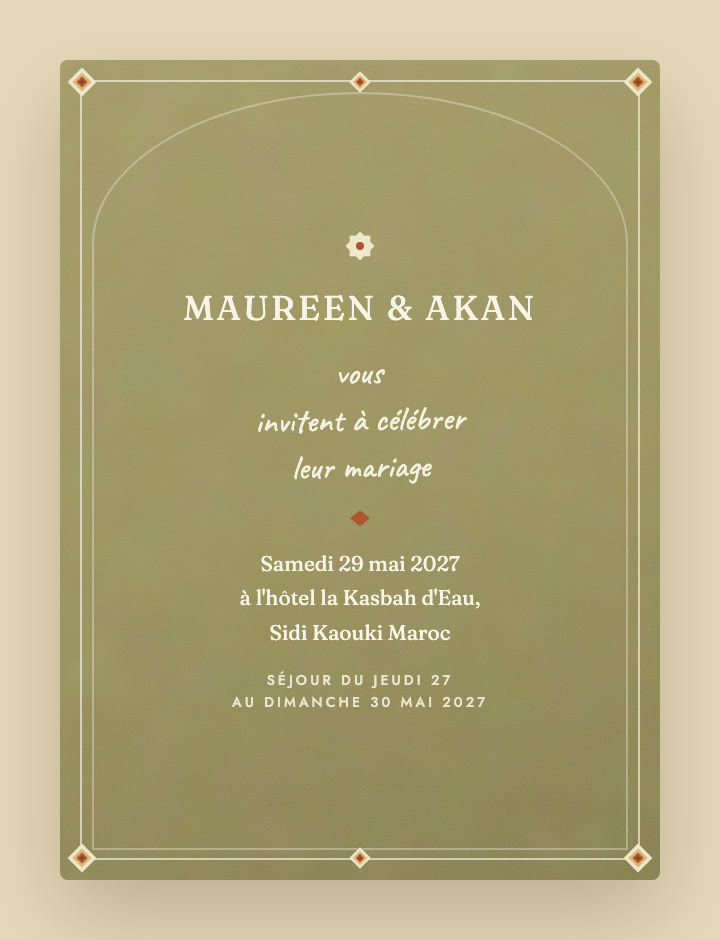
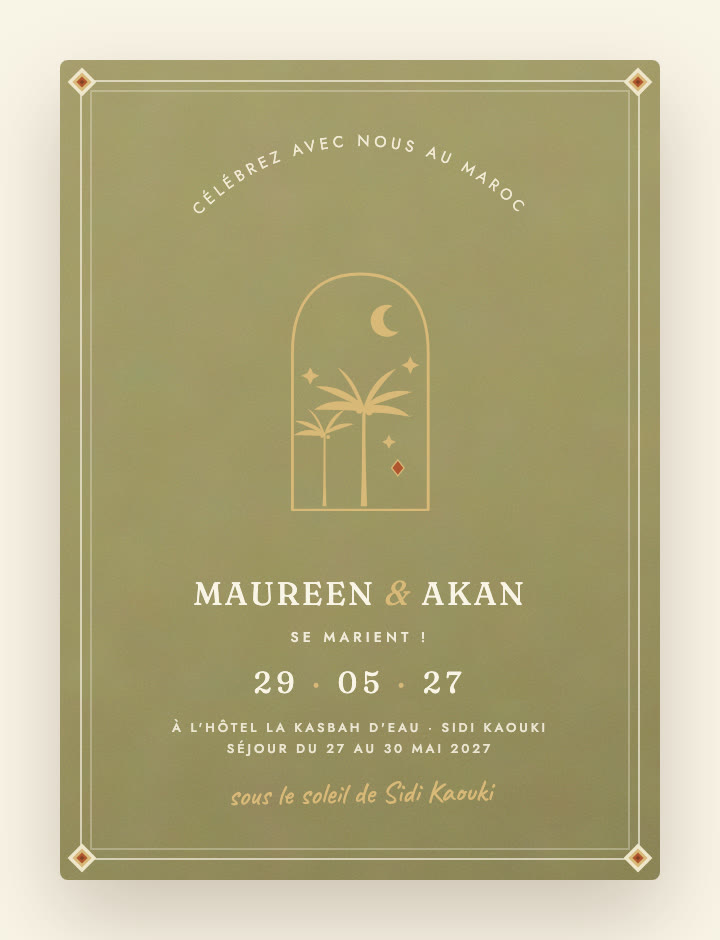
Email : retour au fond beige, nouveau texte, languette-arche + vagues + olivier

diff --git a/lib/email.ts b/lib/email.ts
@@ -19,40 +19,41 @@ export function renderInvitationEmail(firstName: string, rsvpUrl: string) {
   return `<!doctype html>
 <html lang="fr">
   <head><meta charset="utf-8" /></head>
-  <body bgcolor="#7c7448" style="margin:0;padding:0;background-color:#7c7448;">
-    <table role="presentation" width="100%" cellpadding="0" cellspacing="0" bgcolor="#7c7448" style="background-color:#7c7448;">
-      <tr><td align="center" bgcolor="#7c7448" style="background-color:#7c7448;padding:40px 12px;">
-        <img src="${site}/images/email-sun-cream.png" alt="" width="34" height="34" style="display:block;margin:0 auto 14px;border:0;" />
-        <p style="margin:0 0 18px;font-family:Georgia,serif;font-size:22px;color:#faf4e8;">${firstName}, une enveloppe vous attend&hellip;</p>
-        <p style="margin:0 auto 24px;max-width:430px;font-family:Arial,Helvetica,sans-serif;font-size:14px;line-height:1.6;color:#efe6cc;">${invitationEmail.intro}</p>
+  <body bgcolor="#faf4e8" style="margin:0;padding:0;background-color:#faf4e8;">
+    <table role="presentation" width="100%" cellpadding="0" cellspacing="0" bgcolor="#faf4e8" style="background-color:#faf4e8;">
+      <tr><td align="center" bgcolor="#faf4e8" style="background-color:#faf4e8;padding:0 12px 40px;">
+        <img src="${site}/images/email-arch.png" alt="" width="96" height="52" style="display:block;margin:0 auto 22px;border:0;" />
+        <p style="margin:0 0 12px;font-family:Georgia,serif;font-size:22px;color:#55402c;">${firstName}, une enveloppe vous attend&hellip;</p>
+        <img src="${site}/images/email-waves.png" alt="" width="52" height="20" style="display:block;margin:0 auto 18px;border:0;" />
+        <p style="margin:0 auto 24px;max-width:430px;font-family:Arial,Helvetica,sans-serif;font-size:14px;line-height:1.6;color:#6b543a;">${invitationEmail.intro}</p>
         <a href="${rsvpUrl}" style="text-decoration:none;">
-          <img src="${site}/images/invitation-card-green.jpg" alt="Faire-part — ouvrez votre invitation" width="330" style="display:block;width:330px;max-width:88%;height:auto;border:0;border-radius:6px;" />
+          <img src="${site}/images/invitation-card.jpg" alt="Faire-part — ouvrez votre invitation" width="330" style="display:block;width:330px;max-width:88%;height:auto;border:0;border-radius:6px;" />
         </a>
         <table role="presentation" cellpadding="0" cellspacing="0" style="margin:26px auto 0;">
           <tr>
-            <td bgcolor="#efe6cc" style="background-color:#efe6cc;border-radius:999px;">
-              <a href="${rsvpUrl}" style="display:inline-block;color:#5c4a33;font-family:Arial,Helvetica,sans-serif;font-size:15px;font-weight:bold;text-decoration:none;padding:14px 36px;">${invitationEmail.linkLabel}</a>
+            <td bgcolor="#a85b3b" style="background-color:#a85b3b;border-radius:999px;">
+              <a href="${rsvpUrl}" style="display:inline-block;color:#faf4e8;font-family:Arial,Helvetica,sans-serif;font-size:15px;font-weight:bold;text-decoration:none;padding:14px 36px;">${invitationEmail.linkLabel}</a>
             </td>
           </tr>
         </table>
-        <p style="margin:18px auto 0;max-width:430px;font-family:Arial,Helvetica,sans-serif;font-size:13px;line-height:1.6;color:#e6dcbd;">${invitationEmail.outro}</p>
-        <p style="margin:24px 0 0;font-family:Georgia,serif;font-size:13px;letter-spacing:6px;color:#d9b878;">&#9670;&nbsp;&#9671;&nbsp;&#9670;</p>
-        <p style="margin:20px auto 0;max-width:430px;font-family:Arial,Helvetica,sans-serif;font-size:13px;line-height:1.6;color:#e6dcbd;">${invitationEmail.sitePitch}</p>
+        <p style="margin:18px auto 0;max-width:430px;font-family:Arial,Helvetica,sans-serif;font-size:13px;line-height:1.6;color:#7a6449;">${invitationEmail.outro}</p>
+        <p style="margin:24px 0 0;font-family:Georgia,serif;font-size:13px;letter-spacing:6px;color:#b26d36;">&#9670;&nbsp;&#9671;&nbsp;&#9670;</p>
+        <p style="margin:20px auto 0;max-width:430px;font-family:Arial,Helvetica,sans-serif;font-size:13px;line-height:1.6;color:#7a6449;">${invitationEmail.sitePitch}</p>
         <table role="presentation" cellpadding="0" cellspacing="0" style="margin:14px auto 0;">
           <tr>
-            <td bgcolor="#a85b3b" style="background-color:#a85b3b;border-radius:999px;">
+            <td bgcolor="#7c7448" style="background-color:#7c7448;border-radius:999px;">
               <a href="${site}" style="display:inline-block;color:#faf4e8;font-family:Arial,Helvetica,sans-serif;font-size:14px;font-weight:bold;text-decoration:none;padding:12px 30px;">Notre site de mariage</a>
             </td>
           </tr>
         </table>
-        <p style="margin:20px 0 0;font-family:Arial,Helvetica,sans-serif;font-size:12px;color:#e6dcbd;">Réponse souhaitée avant le <strong style="color:#faf4e8;">${rsvpDeadline}</strong></p>
-        <img src="${site}/images/email-khatam.png" alt="" width="22" height="22" style="display:block;margin:26px auto 0;border:0;" />
-        <p style="margin:12px 0 2px;font-family:Arial,Helvetica,sans-serif;font-size:13px;color:#e6dcbd;">${invitationEmail.signature}</p>
-        <p style="margin:0;font-family:Georgia,serif;font-style:italic;font-size:20px;color:#faf4e8;">${wedding.couple.partner1} &amp; ${wedding.couple.partner2}</p>
-        <p style="margin:22px 0 0;font-family:Arial,Helvetica,sans-serif;font-size:12px;font-style:italic;color:#e6dcbd;">${invitationEmail.ps}</p>
-        <img src="${site}/images/email-tongs-cream.png" alt="" width="30" height="30" style="display:block;margin:6px auto 0;border:0;" />
-        <p style="margin:22px 0 0;font-family:Arial,Helvetica,sans-serif;font-size:11px;color:#d5c9a4;">
-          Si le bouton ne fonctionne pas, copiez ce lien : <a href="${rsvpUrl}" style="color:#faf4e8;">${rsvpUrl}</a>
+        <p style="margin:20px 0 0;font-family:Arial,Helvetica,sans-serif;font-size:12px;color:#8a6f4d;">Réponse souhaitée avant le <strong style="color:#55402c;">${rsvpDeadline}</strong></p>
+        <img src="${site}/images/email-olive.png" alt="" width="64" height="26" style="display:block;margin:26px auto 0;border:0;" />
+        <p style="margin:12px 0 2px;font-family:Arial,Helvetica,sans-serif;font-size:13px;color:#7a6449;">${invitationEmail.signature}</p>
+        <p style="margin:0;font-family:Georgia,serif;font-style:italic;font-size:20px;color:#96603f;">${wedding.couple.partner1} &amp; ${wedding.couple.partner2}</p>
+        <p style="margin:22px 0 0;font-family:Arial,Helvetica,sans-serif;font-size:12px;font-style:italic;color:#8a6f4d;">${invitationEmail.ps}</p>
+        <img src="${site}/images/email-tongs.png" alt="" width="30" height="30" style="display:block;margin:6px auto 0;border:0;" />
+        <p style="margin:22px 0 0;font-family:Arial,Helvetica,sans-serif;font-size:11px;color:#a08a68;">
+          Si le bouton ne fonctionne pas, copiez ce lien : <a href="${rsvpUrl}" style="color:#96603f;">${rsvpUrl}</a>
         </p>
       </td></tr>
     </table>

diff --git a/content/wedding.ts b/content/wedding.ts
@@ -228,12 +228,12 @@ export const wedding = {
   invitationEmail: {
     subject: "Notre mariage au Maroc — votre invitation 💌",
     intro:
-      "On voulait vous l'annoncer nous-mêmes : on se marie, et on aimerait beaucoup que vous soyez là.",
+      "Comme vous le savez, on a un beau projet en 2027 : on se marie ! On espère sincèrement que vous pourrez venir, et on est ravis de vous inviter à célébrer ce moment avec nous.",
     linkLabel: "Ouvrir votre invitation",
     outro:
-      "Vous pourrez y confirmer ou non votre présence, indiquer votre date d'arrivée, votre logement et vos préférences alimentaires. Pas besoin de tout savoir dès maintenant — si certaines choses ne sont pas encore sûres, vous pourrez y revenir à tout moment pour modifier votre réponse.",
+      "Vous pourrez confirmer (ou non) votre présence, indiquer votre date d'arrivée, votre logement et vos préférences alimentaires. Rien n'est figé — vous pourrez revenir modifier votre réponse à tout moment.",
     sitePitch:
-      "Toutes les infos pratiques (comment venir, où vous dormirez, le programme) sont disponibles sur notre site.",
+      "Toutes les infos pratiques (accès, hébergement, programme) sont à retrouver sur notre site.",
     signature: "Prêts pour le voyage ?",
     ps: "PS : préparez vos tongs.",
   },

diff --git a/app/carte/page.tsx b/app/carte/page.tsx
@@ -4,7 +4,7 @@ import { InvitationCard } from "@/components/invitation-reveal";
 // l'email d'invitation via une capture headless — fond assorti à l'email).
 export default function CartePage() {
   return (
-    <main className="flex min-h-svh items-center justify-center bg-[#7c7448] p-8">
+    <main className="flex min-h-svh items-center justify-center bg-[#faf4e8] p-8">
       <div className="w-[300px]" style={{ aspectRatio: "3 / 4.1" }}>
         <InvitationCard className="h-full w-full shadow-[0_18px_44px_rgba(85,64,44,0.28)]" />
       </div>
